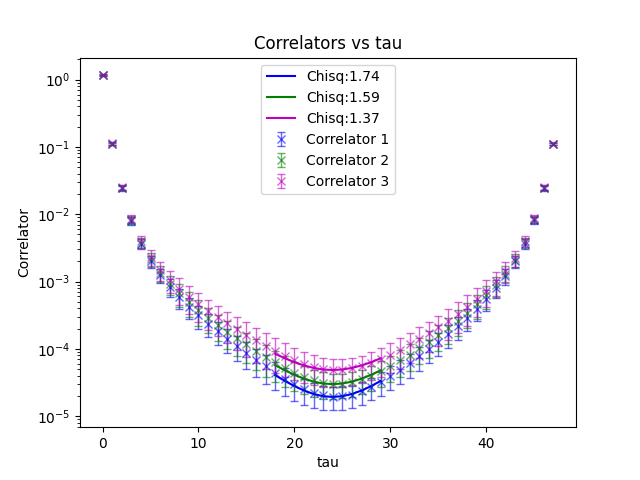
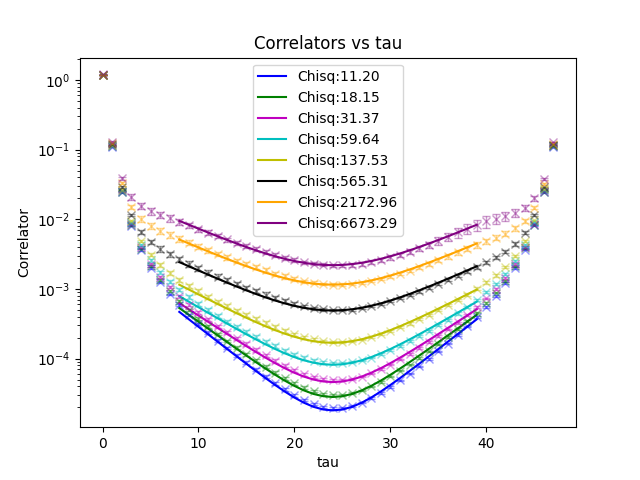
more robust reading of data function now, added a new correlator

diff --git a/pion_masses.py b/pion_masses.py
@@ -6,9 +6,14 @@ import os
 
 home_dir = '/mnt/c/Users/chris/OneDrive/Desktop/'
 
-n_correlators = 3
+n_correlators = 8
 n_tau = 48
 n_configs = 50
+
+# relevant variables for plotting
+tau = np.arange(n_tau)
+colors = ['b', 'g', 'm', 'c', 'y', 'k', 'orange', 'purple']
+kappa_values = np.array([0.1337, 0.1339, 0.1341, 0.1343, 0.1345, 0.1347, 0.1348, 0.13485]) # coming up: 0.13490
 
 def read_lattice_data(file_path):
     """
@@ -61,7 +66,7 @@ def create_binned_data(correlators, bin_size=10):
     print("Binned correlators shape:", binned_correlators.shape)
     return binned_correlators
 
-def create_bins(data, bin_size): ### check this guy
+def create_bins(data, bin_size):     
     """
     Creates binned data from the given data.
     
@@ -89,7 +94,7 @@ def create_jackknife_data(binned_correlators, n_jackknife=None):
     print("Jackknife correlators shape:", jackknife_data.shape)
     return jackknife_data, np.squeeze(jackknife_error)
 
-def create_jackknife_samples(data, n_jackknife=None): ### check this guy
+def create_jackknife_samples(data, n_jackknife=None):
     """
     Creates jackknife samples from the given data.
     
@@ -146,15 +151,132 @@ def lattice_spacing_olaf(am):
     m_pi = rm / r0 *197.3269804 # in MeV
     return rm, m_pi
 
-def main():
-    data = []
-    for files in os.listdir(os.path.join(home_dir, 'pion_lattice_data/second_run/')):
-        data.append(read_lattice_data(os.path.join(home_dir, 'pion_lattice_data/second_run/', files)))
-    print("Data read from files.")
-    data = np.array(data) # the data array is the concatenated correlators for each configuration
-    correlators = np.zeros((n_correlators, n_configs, n_tau))
+def load_run(run_dir):
+    """Load all files in run_dir and return array shape (n_configs_run, n_correlators_per_run, n_tau)."""
+    files = sorted([f for f in os.listdir(run_dir) if os.path.isfile(os.path.join(run_dir, f))])
+    run_data = [read_lattice_data(os.path.join(run_dir, f)) for f in files]
+    run_data = np.vstack(run_data)  # (n_configs_run, n_correlators * n_tau)
+    if run_data.shape[1]%n_tau != 0:
+        raise ValueError(f"Got {run_data.shape[1]} columns, expected a multiple of {n_tau}")
+    return run_data.reshape(run_data.shape[0], run_data.shape[1] // n_tau, n_tau)
+
+def fit_correlator(jk_correlators, jk_error, fitrange):
+    masses = []
+    factor = []
+    chisq = []
+    jk_error = jk_error[:, int(n_tau/2)-fitrange: int(n_tau/2)+fitrange]
     for i in range(n_correlators):
-        correlators[i] = data[:,i*n_tau:(i+1)*n_tau] # seperate the correlators
+        mean_correlator = np.mean(jk_correlators, axis=1)[i]
+        mean_correlator = mean_correlator[int(n_tau/2)-fitrange: int(n_tau/2)+fitrange]
+        popt, pcov = curve_fit(
+            fit_function, 
+            np.arange(int(n_tau/2)-fitrange,  int(n_tau/2)+fitrange), 
+            mean_correlator, 
+            sigma = jk_error[i][:])
+        ndof = len(mean_correlator) - len(popt)
+        factor.append(popt[0])
+        masses.append(popt[1])
+        chisq.append(chi_squared(mean_correlator, fit_function(np.arange(int(n_tau/2)-fitrange, int(n_tau/2)+fitrange), *popt), ndof, jk_error))
+        print(f'Fitted mass for correlator {i+1}: {popt[1]}')
+    return masses, factor, chisq
+
+def jackknife_mass_errors(jk_correlators, jk_error, n_jackknife, fitrange):
+    jackknife_masses = []
+    jackknife_masses_errors = []
+    jk_error = jk_error[:, int(n_tau/2)-fitrange: int(n_tau/2)+fitrange]
+    for i in range(n_correlators):
+        jk_masses = []
+        jk_factors = []
+        for j in range(n_jackknife):
+            jk_sample = jk_correlators[i][j]
+            jk_sample = jk_sample[int(n_tau/2)-fitrange: int(n_tau/2)+fitrange]
+            popt, pcov = curve_fit(
+                fit_function, 
+                np.arange(int(n_tau/2)-fitrange,  int(n_tau/2)+fitrange), 
+                jk_sample, 
+                sigma = jk_error[i][:])
+            jk_factors.append(popt[0])
+            jk_masses.append(popt[1])
+        jk_masses = np.array(jk_masses)
+        mean_mass = np.mean(jk_masses)
+        error = np.sqrt((n_jackknife - 1) * np.mean((jk_masses - mean_mass)**2))
+        jackknife_masses_errors.append(error)
+        jackknife_masses.append((mean_mass, error))
+        print(f'Jackknife mass for correlator {i+1}: {mean_mass} ± {error}')
+        return jackknife_masses, jackknife_masses_errors
+
+def plot_correlators(correlators, jackknife_error, masses, factor, chisq, fitrange):
+    fit_range = np.arange(int(n_tau/2)-fitrange,  int(n_tau/2)+fitrange)
+    plt.figure()
+    for i in range(n_correlators):
+        #yerr = np.std(correlators[i], axis=0)
+        mean_correlator = np.mean(correlators[i], axis=0)
+        plt.errorbar(tau, mean_correlator, yerr=jackknife_error[i][:], fmt='x', markeredgewidth=1, elinewidth=1, capsize=3, alpha=0.4, color=colors[i])
+        plt.plot(fit_range, fit_function(fit_range, factor[i], masses[i]), label=f'Chisq:{chisq[i]:.2f}', color=colors[i])
+    plt.yscale('log')
+    plt.xlabel('tau')
+    plt.ylabel('Correlator')
+    plt.title('Correlators vs tau')
+    plt.legend()
+    plt.savefig(os.path.join(home_dir, 'pion_masses/', 'correlators.png'))
+    plt.close()
+
+def plot_effective_mass(correlators):
+    m_eff = np.zeros(n_tau-2)
+    plt.figure()
+    for i in range(n_correlators):
+        mean_correlator = np.mean(correlators[i], axis=0)
+        for j in range(1,n_tau-1):
+            m_eff[j-1] = np.abs(1/2*np.log(mean_correlator[j+1]/mean_correlator[j-1]))
+        plt.plot(tau[1:-1], m_eff, 'x-', label=f'Correlator {i+1}', color=colors[i])
+    plt.xlabel('tau')
+    plt.ylabel('abs(Effective Mass)')
+    plt.title('abs(Effective Mass) vs tau')
+    plt.savefig(os.path.join(home_dir, 'pion_masses/', 'effective_mass.png'))
+    plt.close()
+
+def fit_kappa_values(m_pi, jk_masses_errors):
+    p = np.polyfit(1/kappa_values, m_pi**2, 1, w = 2*m_pi*np.array(jk_masses_errors))
+    print(f'Fit parameters (slope, intercept): {p}')
+    pion_mass = 400 # MeV
+    determined_kappa = p[0] / (pion_mass**2 - p[1])
+    print(f'Determined kappa for pion mass {pion_mass} MeV: {determined_kappa}')
+    return p, determined_kappa
+
+def plot_kappa_values(p, m_pi, pion_mass, determined_kappa, jk_masses_errors):
+    paper_kappa = 0.13495
+    physical_pion = 135**2 # MeV^2
+
+    plt.figure()
+    plt.errorbar(1/kappa_values, m_pi**2, yerr=2*m_pi*np.array(jk_masses_errors), fmt='x', markeredgewidth=1, elinewidth=1, capsize=3)
+    plt.plot(1/kappa_values, np.polyval(p, 1/kappa_values), '-', label=f'Fit: y={p[0]:.2f}x + {p[1]:.2f}')
+    plt.plot(1/determined_kappa, pion_mass**2, 'rx', label=f'Kappa for {pion_mass} MeV: {determined_kappa:.5f}')
+    plt.vlines(1/paper_kappa, label = f'Olafs kappa: {paper_kappa}', ymin=0, ymax=pion_mass**2+1000000, colors='g', linestyles='dashed')
+    plt.hlines(physical_pion, label = f'$m_p$ = {np.sqrt(physical_pion):.2f} MeV', xmin=7.38, xmax=7.43, colors='m', linestyles='dashed')
+    plt.hlines(pion_mass**2, label = f'$m_p$ = {pion_mass} MeV', xmin=7.38, xmax=7.43, colors='r', linestyles='dashed')
+    plt.legend()
+    plt.xlabel('1/kappa')
+    plt.ylabel('Pion Mass^2 (MeV^2)')
+    plt.title('Pion Mass^2 vs 1/Kappa')
+    plt.savefig(os.path.join(home_dir, 'pion_masses/', 'pion_mass_vs_kappa.png'))
+    plt.close()
+
+
+def main():
+    run_paths = [
+        os.path.join(home_dir, 'pion_lattice_data/second_run/'),
+        os.path.join(home_dir, 'pion_lattice_data/third_run/'),
+        os.path.join(home_dir, 'pion_lattice_data/fourth_run/'),
+        os.path.join(home_dir, 'pion_lattice_data/fifth_run/'),
+    ]
+
+    runs = [load_run(p) for p in run_paths]               # each run: (n_configs_run, n_correlators, n_tau)
+    
+    all_runs = np.concatenate(runs, axis=1)               # (n_configs, n_correlators, n_tau)
+
+    correlators = np.transpose(all_runs, (1, 0, 2))       # (n_correlator, n_configs_total, n_tau)
+
+    print("Correlators shape:", correlators.shape)
     ### Create binned data for each correlator
     binned_correlators = create_binned_data(correlators, bin_size=10)
     ### Create jackknife samples for each correlator
@@ -166,78 +288,20 @@ def main():
     print("Processed data saved.")
     ### Fit the correlators to extract masses 
     ### (note that the range of tau values for the fit function needs to be adjusted by effective mass)
-    masses = []
-    factor = []
-    chisq = []
-    fitrange = 6 # fit around the center
-    for i in range(n_correlators):
-        mean_correlator = np.mean(jackknife_correlators, axis=1)[i]
-        mean_correlator = mean_correlator[int(n_tau/2)-fitrange: int(n_tau/2)+fitrange]
-        jk_error = jackknife_error[i][int(n_tau/2)-fitrange: int(n_tau/2)+fitrange]
-        popt, pcov = curve_fit(
-            fit_function, 
-            np.arange(int(n_tau/2)-fitrange,  int(n_tau/2)+fitrange), 
-            mean_correlator, 
-            sigma = jk_error)
-        ndof = len(mean_correlator) - len(popt)
-        factor.append(popt[0])
-        masses.append(popt[1])
-        chisq.append(chi_squared(mean_correlator, fit_function(np.arange(int(n_tau/2)-fitrange, int(n_tau/2)+fitrange), *popt), ndof, jk_error))
-        print(f'Fitted mass for correlator {i+1}: {popt[1]}')
+    fitrange = 16
+    masses, factor, chisq = fit_correlator(jackknife_correlators, jackknife_error, fitrange)    
     ### Save the fitted masses
     np.save(os.path.join(home_dir, 'pion_masses/', 'fitted_masses.npy'), np.array(masses))
     print("Fitted masses saved.")
     ### Jackknife error estimation for masses
-    jackknife_masses = []
-    for i in range(n_correlators):
-        jk_masses = []
-        jk_factors = []
-        for j in range(n_jackknife):
-            jk_sample = jackknife_correlators[i][j]
-            jk_sample = jk_sample[int(n_tau/2)-fitrange: int(n_tau/2)+fitrange]
-            jk_error = jackknife_error[i][int(n_tau/2)-fitrange: int(n_tau/2)+fitrange]
-            popt, pcov = curve_fit(
-                fit_function, 
-                np.arange(int(n_tau/2)-fitrange,  int(n_tau/2)+fitrange), 
-                jk_sample, 
-                sigma = jk_error)
-            jk_factors.append(popt[0])
-            jk_masses.append(popt[1])
-        jk_masses = np.array(jk_masses)
-        mean_mass = np.mean(jk_masses)
-        error = np.sqrt((n_jackknife - 1) * np.mean((jk_masses - mean_mass)**2))
-        jackknife_masses.append((mean_mass, error))
-        print(f'Jackknife mass for correlator {i+1}: {mean_mass} ± {error}')
+    jackknife_masses, jackknife_masses_errors = jackknife_mass_errors(jackknife_correlators, jackknife_error, n_jackknife, fitrange)
     ### Save the jackknife masses
     np.save(os.path.join(home_dir, 'pion_masses/', 'jackknife_masses.npy'), np.array(jackknife_masses))
     print("Jackknife masses saved.")
     ### Plot the correlators
-    tau = np.arange(n_tau)
-    fit_range = np.arange(int(n_tau/2)-fitrange,  int(n_tau/2)+fitrange)
-    colors = ['b', 'g', 'm']
-    plt.figure()
-    for i in range(n_correlators):
-        mean_correlator = np.mean(correlators[i], axis=0)
-        plt.errorbar(tau, mean_correlator, yerr=np.std(correlators[i], axis=0), fmt='x', markeredgewidth=1, elinewidth=1, capsize=3, alpha=0.6, color=colors[i], label = f'Correlator {i+1}')
-        plt.plot(fit_range, fit_function(fit_range, factor[i], masses[i]), label=f'Chisq:{chisq[i]:.2f}', color=colors[i])
-    plt.yscale('log')
-    plt.xlabel('tau')
-    plt.ylabel('Correlator')
-    plt.title('Correlators vs tau')
-    plt.legend()
-    plt.savefig(os.path.join(home_dir, 'pion_masses/', 'correlators.png'))
-    plt.close()
+    plot_correlators(correlators, jackknife_error, masses, factor, chisq, fitrange)
     ### Plot the effective mass for the first correlator
-    m_eff = np.zeros(n_tau-2)
-    for i in range(1,n_tau-1):
-        m_eff[i-1] = np.abs(1/2*np.log(mean_correlator[i+1]/mean_correlator[i-1]))
-    plt.figure()
-    plt.plot(tau[1:-1], m_eff, 'o-')
-    plt.xlabel('tau')
-    plt.ylabel('abs(Effective Mass)')
-    plt.title('abs(Effective Mass) vs tau')
-    plt.savefig(os.path.join(home_dir, 'pion_masses/', 'effective_mass.png'))
-    plt.close()
+    plot_effective_mass(correlators)
 
     ### Physical mass
     sommer_scale = False
@@ -250,25 +314,9 @@ def main():
 
     print(f'Physical pion mass: {m_pi} MeV')
 
-    kappa_values = np.array([0.1337, 0.1339, 0.1341])
-
-    p = np.polyfit(1/kappa_values, m_pi**2, 1)
-    print(f'Fit parameters (slope, intercept): {p}')
+    fit, determined_kappa = fit_kappa_values(m_pi, jackknife_masses_errors)
     pion_mass = 400 # MeV
-    determined_kappa = p[0] / (pion_mass**2 - p[1])
-    print(f'Determined kappa for pion mass {pion_mass} MeV: {determined_kappa}')
-
-    plt.figure()
-    plt.plot(1/kappa_values, m_pi**2, 'x')
-    plt.plot(1/kappa_values, np.polyval(p, 1/kappa_values), '-', label=f'Fit: y={p[0]:.2f}x + {p[1]:.2f}')
-    plt.plot(1/determined_kappa, pion_mass**2, 'ro', label=f'Kappa for {pion_mass} MeV: {determined_kappa:.5f}')
-    plt.legend()
-    plt.xlabel('1/kappa')
-    plt.ylabel('Pion Mass^2 (MeV^2)')
-    plt.title('Pion Mass^2 vs 1/Kappa')
-    plt.savefig(os.path.join(home_dir, 'pion_masses/', 'pion_mass_vs_kappa.png'))
-    plt.close()
-
+    plot_kappa_values(fit, m_pi, pion_mass, determined_kappa, jackknife_masses_errors)
 
 if __name__ == "__main__":
     main()
